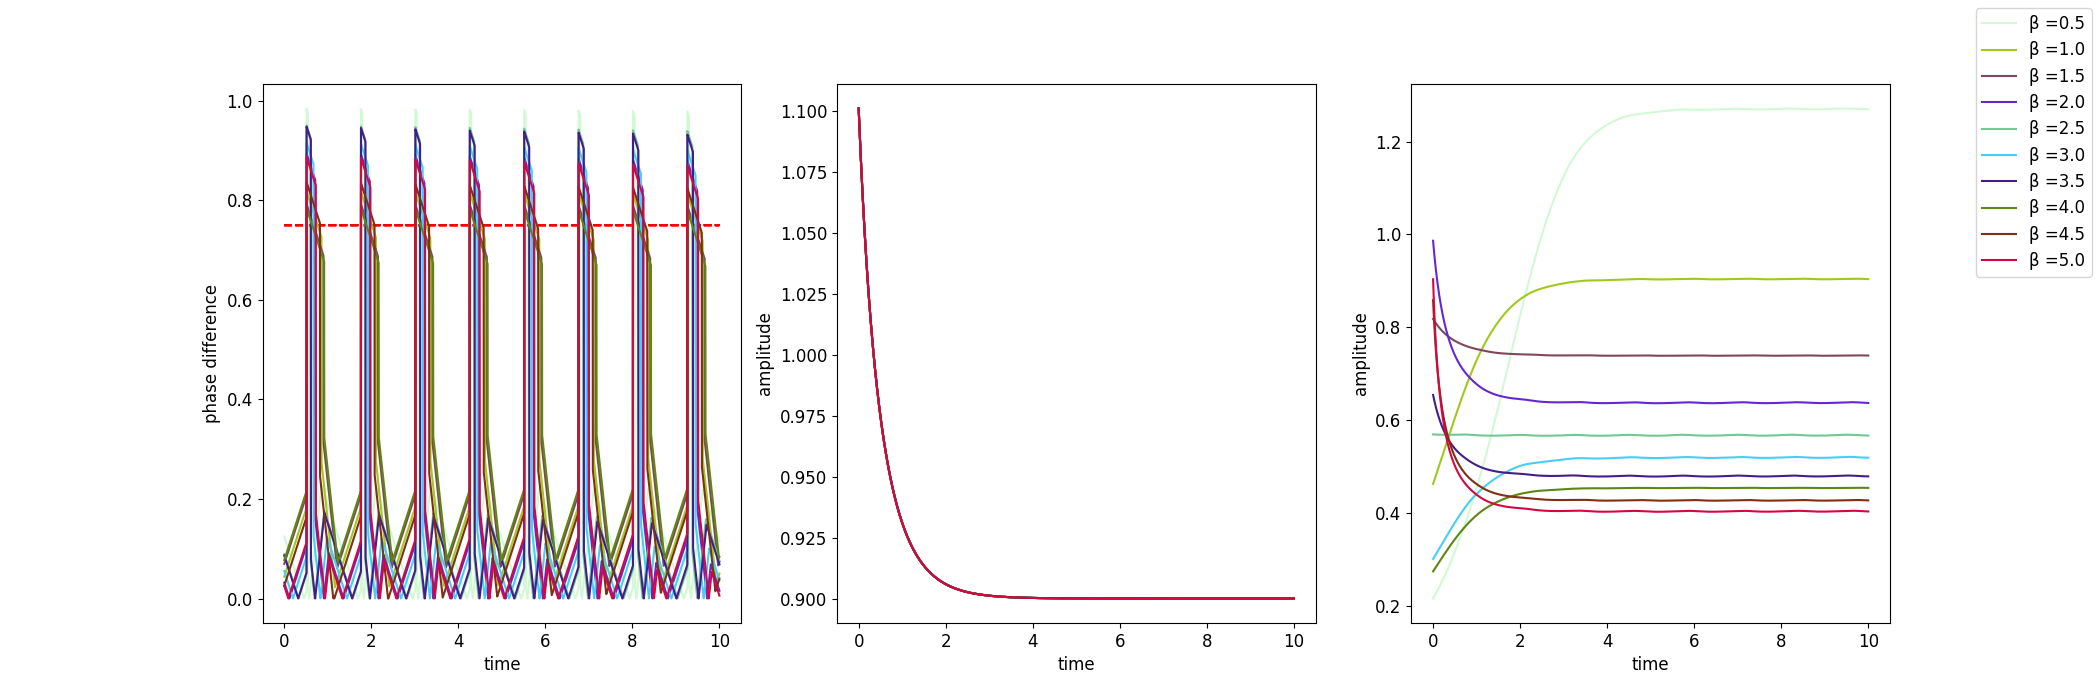
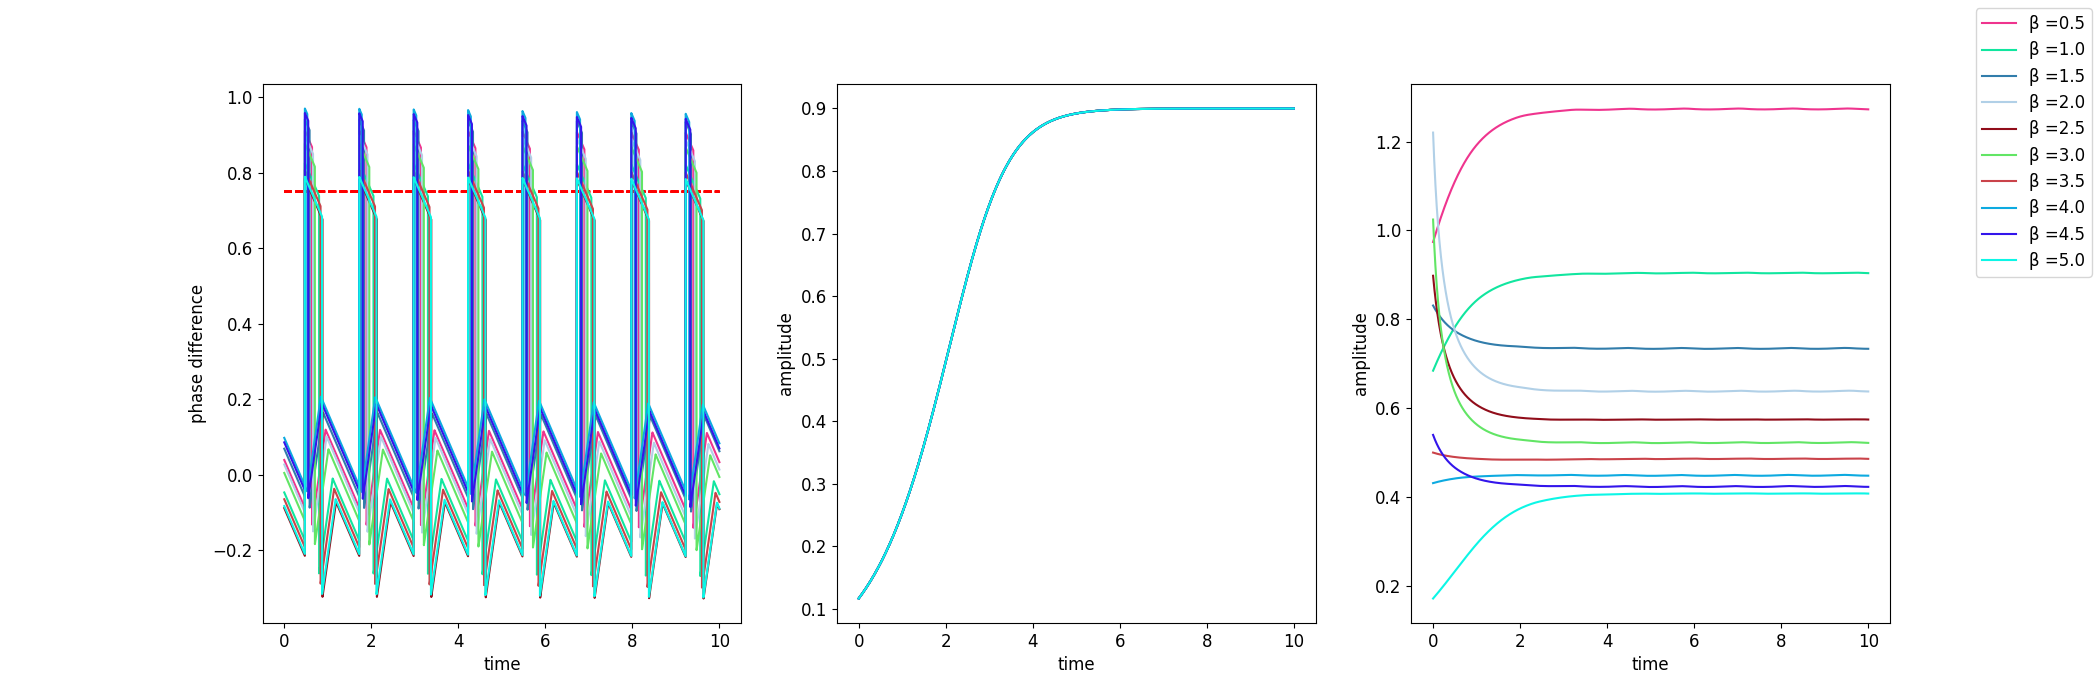
commit sync

diff --git a/oscillator_v2.py b/oscillator_v2.py
@@ -469,7 +469,7 @@ def test_cpg_v2(
     Z2 = np.stack(Z2, 0)
     PHI = np.stack(PHI, 0)
     plt.rcParams["font.size"] = "12"
-    fig, axes = plt.subplots(num_osc, 4,figsize=(40, num_osc * 10)) 
+    fig, axes = plt.subplots(num_osc, 4,figsize=(4 * 15, num_osc * 10)) 
     steps = N // 8
     for i in range(num_osc):
         axes[i][0].plot(T[-steps:], Z1[-steps:, i], '--b', label = 'reference')
@@ -498,6 +498,15 @@ def test_cpg_v2(
             '--r',
             label = 'generator'
         )
+        axes[i][2].plot(
+            T[-steps:],
+            (
+                np.arctan2(Z1[-steps:, i + num_osc], Z1[-steps:, i]) - \
+                    np.arctan2(Z2[-steps:, i + num_osc], Z2[-steps:, i])
+            ) / (2 * np.pi),
+            '--g',
+            label = 'phase difference'
+        )
         axes[i][0].set_xlabel('time')
         axes[i][0].set_ylabel('real part')
         axes[i][1].set_xlabel('time')
@@ -506,16 +515,17 @@ def test_cpg_v2(
         axes[i][2].set_ylabel('phase')
         axes[i][3].plot(
             T,  
-            np.abs(np.arctan2(Z1[:, i + num_osc], Z1[:, i]) - \
+            (np.arctan2(Z1[:, i + num_osc], Z1[:, i]) - \
                 np.arctan2(Z2[:, i + num_osc], Z2[:, i])) / (2 * np.pi),
             '--b',
             label = 'generator'
         )
         axes[i][3].set_xlabel('time')
         axes[i][3].set_ylabel('phase difference')
-        #axes[i][0].legend(loc = 'upper left')
-        #axes[i][1].legend(loc = 'upper left')
-        #axes[i][2].legend(loc = 'upper left')
+        axes[i][0].legend(loc = 'upper left')
+        axes[i][1].legend(loc = 'upper left')
+        axes[i][2].legend(loc = 'upper left')
+        axes[i][3].legend(loc = 'upper left')
     name = '{}_{}_{}.{}'.format(
         filename,
         str(version),
@@ -524,7 +534,7 @@ def test_cpg_v2(
     )
     lines_labels = [ax.get_legend_handles_labels() for ax in fig.axes]
     lines, labels = [sum(lol, []) for lol in zip(*lines_labels[:1])]
-    fig.legend(lines, labels)
+    #fig.legend(lines, labels)
     fig.savefig(os.path.join(logdir, name))
     if show:
         plt.show()
@@ -547,7 +557,7 @@ def test_cpg_v2(
     for i in range(num_osc):
         ax[0].plot(
             T,
-            np.abs(PHI[:, i]),
+            PHI[:, i],
             color = color[i],
             linestyle = '-',
             label = '\u03B2 =' + str(beta[i])
